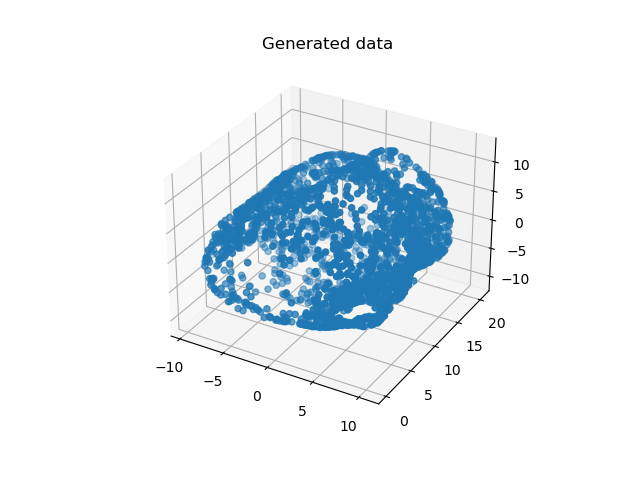
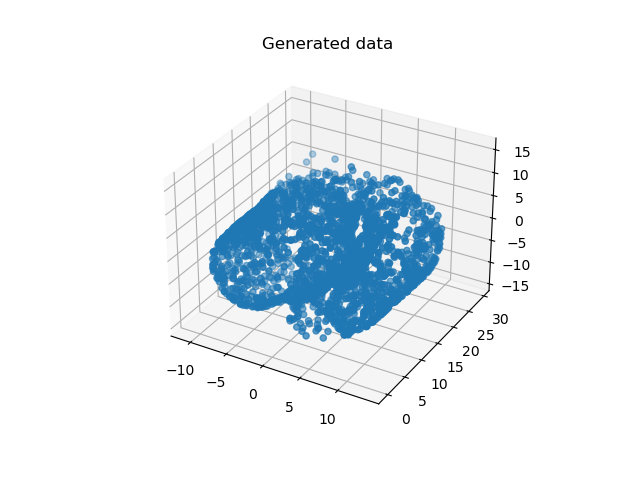
Apr. 7 updates

diff --git a/P3/P3_GAN.py b/P3/P3_GAN.py
@@ -1,0 +1,97 @@
+import torch
+import numpy as np
+import torch.nn as nn
+from torch.utils.data import DataLoader
+from matplotlib import pyplot as plot
+import os
+
+from data import SwissRollDataset
+from model import Generator, Discriminator
+
+os.environ["KMP_DUPLICATE_LIB_OK"] = "TRUE"
+
+# Hyperparameters
+N = 2500            # Number of data points
+EPOCH = 5000         # Number of epochs
+BSIZE = 250         # Batch size
+D_ITER = 5
+
+# Dataset
+dataset = SwissRollDataset(N)
+dataloader = DataLoader(dataset, batch_size=BSIZE, shuffle=False)
+
+# Model
+G_model = Generator(2, [32, 256, 512, 512, 256, 32], 3)
+D_model = Discriminator(3, [32, 256, 512, 512, 256, 32], 1)
+
+# Reconstruction loss
+rec_loss = nn.MSELoss()
+
+# Optimizer
+G_optim = torch.optim.Adam(G_model.parameters(), lr=0.0001)
+D_optim = torch.optim.Adam(D_model.parameters(), lr=0.0001)
+
+# Loss value records (for plotting)
+g_loss = []
+d_loss = []
+
+# Training
+for e in range(EPOCH):
+    for i, data in enumerate(dataloader):
+        z = torch.randn(BSIZE, 2)
+
+        # forward
+        x_gen = G_model(z)
+
+        # loss calculation
+        for _ in range(D_ITER):
+            p_true = D_model(data)
+            p_false = D_model(x_gen)
+            
+            disc_ce_loss = -torch.mean(torch.log(p_true)) - torch.mean(torch.log(1 - p_false))
+
+            D_optim.zero_grad()
+            disc_ce_loss.backward(retain_graph=True)
+            D_optim.step()
+            d_loss.append(disc_ce_loss.item())
+        
+        p_false = D_model(x_gen)
+        gen_loss = torch.mean(torch.log(1 - p_false))
+
+        G_optim.zero_grad()
+        gen_loss.backward()
+        G_optim.step()
+        g_loss.append(gen_loss.item())
+
+        # print status
+        print(f'Epoch {e} {i * BSIZE}/{len(dataset)}:', 
+              f'G_loss={round(gen_loss.item(), 4)},',
+              f'D_loss={round(disc_ce_loss.item(), 4)}')
+
+# Plot loss curve
+x1 = np.arange((len(d_loss)))
+y1 = np.array(d_loss)
+x2 = np.arange((len(g_loss))) * D_ITER
+y2 = np.array(g_loss)
+
+plot.figure()
+plot.plot(x1, y1, 'b-')
+plot.plot(x2, y2, 'g-')
+plot.legend(['Discriminator loss', 'Generator loss'])
+plot.savefig('GAN/loss.png')
+
+# Plot encoded data
+full_z = torch.randn(len(dataset), 2)
+generation_final = G_model(full_z).detach().numpy()
+fig = plot.figure()
+ax = fig.add_subplot(projection='3d')
+ax.scatter(generation_final[:, 0], generation_final[:, 1], generation_final[:, 2], marker='o')
+ax.set_title('Generated data')
+plot.savefig('GAN/generated.png')
+
+# Show original data
+fig = plot.figure()
+ax = fig.add_subplot(projection='3d')
+ax.scatter(dataset[:, 0], dataset[:, 1], dataset[:, 2], marker='o')
+ax.set_title('Original data')
+plot.savefig('GAN/original.png')

diff --git a/P3/model.py b/P3/model.py
@@ -1,0 +1,55 @@
+import torch.nn as nn
+import torch
+from collections import OrderedDict
+
+class Generator(nn.Module):
+    '''
+    Simple 2-layer MLP encoder network
+    '''
+    def __init__(self, in_dim, latent_dim, out_dim) -> None:
+        super(Generator, self).__init__()
+        self.in_dim = in_dim
+        self.latent_dim = latent_dim
+        self.out_dim = out_dim
+        self.fc1 = [('fc1', nn.Linear(in_dim, latent_dim[0])), ('relu1', nn.LeakyReLU(0.2))]
+        # self.fc1 = [('bn1', nn.BatchNorm1d(in_dim)), ('fc1', nn.Linear(in_dim, latent_dim[0])), ('relu1', nn.LeakyReLU(0.2))]
+        self.fcs = []
+        for i in range(1, len(latent_dim)):
+            # self.fcs.append((f'bn{i+1}', nn.BatchNorm1d(latent_dim[i-1])))
+            self.fcs.append((f'fc{i+1}', nn.Linear(latent_dim[i-1], latent_dim[i])))
+            self.fcs.append((f'relu{i+1}', nn.LeakyReLU(0.2)))
+        self.fc2 = [# (f'bn{len(latent_dim) + 1}', nn.BatchNorm1d(latent_dim[-1])), 
+                    (f'fc{len(latent_dim) + 1}', nn.Linear(latent_dim[-1], out_dim))]
+        self.layers = nn.Sequential(OrderedDict(self.fc1 + self.fcs + self.fc2))
+
+    def forward(self, x):
+        for layer in self.layers:
+            x = layer(x)
+        return x
+
+
+class Discriminator(nn.Module):
+    '''
+    Simple 2-layer MLP decoder network
+    '''
+    def __init__(self, in_dim, latent_dim, out_dim) -> None:
+        super(Discriminator, self).__init__()
+        self.in_dim = in_dim
+        self.latent_dim = latent_dim
+        self.out_dim = out_dim
+        self.fc1 = [('fc1', nn.Linear(in_dim, latent_dim[0])), ('sig1', nn.Sigmoid())]
+        # self.fc1 = [('bn1', nn.BatchNorm1d(in_dim)), ('fc1', nn.Linear(in_dim, latent_dim[0])), ('sig1', nn.Sigmoid())]
+        self.fcs = []
+        for i in range(1, len(latent_dim)):
+            # self.fcs.append((f'bn{i+1}', nn.BatchNorm1d(latent_dim[i-1])))
+            self.fcs.append((f'fc{i+1}', nn.Linear(latent_dim[i-1], latent_dim[i])))
+            self.fcs.append((f'sig{i+1}', nn.Sigmoid()))
+        self.fc2 = [ #(f'bn{len(latent_dim) + 1}', nn.BatchNorm1d(latent_dim[-1])), 
+                    (f'fc{len(latent_dim) + 1}', nn.Linear(latent_dim[-1], out_dim)),
+                    (f'sig{len(latent_dim) + 1}', nn.Sigmoid())]
+        self.layers = nn.Sequential(OrderedDict(self.fc1 + self.fcs + self.fc2))
+
+    def forward(self, x):
+        for layer in self.layers:
+            x = layer(x)
+        return x

diff --git a/P2/model.py b/P2/model.py
@@ -11,12 +11,12 @@ class Encoder(nn.Module):
         self.in_dim = in_dim
         self.latent_dim = latent_dim
         self.out_dim = out_dim
-        self.fc1 = [('bn1', nn.BatchNorm1d(in_dim)), ('fc1', nn.Linear(in_dim, latent_dim[0])), ('relu1', nn.Sigmoid())]
+        self.fc1 = [('bn1', nn.BatchNorm1d(in_dim)), ('fc1', nn.Linear(in_dim, latent_dim[0])), ('relu1', nn.LeakyReLU(0.2))]
         self.fcs = []
         for i in range(1, len(latent_dim)):
             self.fcs.append((f'bn{i+1}', nn.BatchNorm1d(latent_dim[i-1])))
             self.fcs.append((f'fc{i+1}', nn.Linear(latent_dim[i-1], latent_dim[i])))
-            self.fcs.append((f'relu{i+1}', nn.Sigmoid()))
+            self.fcs.append((f'relu{i+1}', nn.LeakyReLU(0.2)))
         self.fc2 = [(f'bn{len(latent_dim) + 1}', nn.BatchNorm1d(latent_dim[-1])), (f'fc{len(latent_dim) + 1}', nn.Linear(latent_dim[-1], out_dim))]
         self.layers = nn.Sequential(OrderedDict(self.fc1 + self.fcs + self.fc2))
 
@@ -35,12 +35,12 @@ class Decoder(nn.Module):
         self.in_dim = in_dim
         self.latent_dim = latent_dim
         self.out_dim = out_dim
-        self.fc1 = [('bn1', nn.BatchNorm1d(in_dim)), ('fc1', nn.Linear(in_dim, latent_dim[0])), ('relu1', nn.Sigmoid())]
+        self.fc1 = [('bn1', nn.BatchNorm1d(in_dim)), ('fc1', nn.Linear(in_dim, latent_dim[0])), ('relu1', nn.LeakyReLU(0.2))]
         self.fcs = []
         for i in range(1, len(latent_dim)):
             self.fcs.append((f'bn{i+1}', nn.BatchNorm1d(latent_dim[i-1])))
             self.fcs.append((f'fc{i+1}', nn.Linear(latent_dim[i-1], latent_dim[i])))
-            self.fcs.append((f'relu{i+1}', nn.Sigmoid()))
+            self.fcs.append((f'relu{i+1}', nn.LeakyReLU(0.2)))
         self.fc2 = [(f'bn{len(latent_dim) + 1}', nn.BatchNorm1d(latent_dim[-1])), (f'fc{len(latent_dim) + 1}', nn.Linear(latent_dim[-1], out_dim))]
         self.layers = nn.Sequential(OrderedDict(self.fc1 + self.fcs + self.fc2))
 
